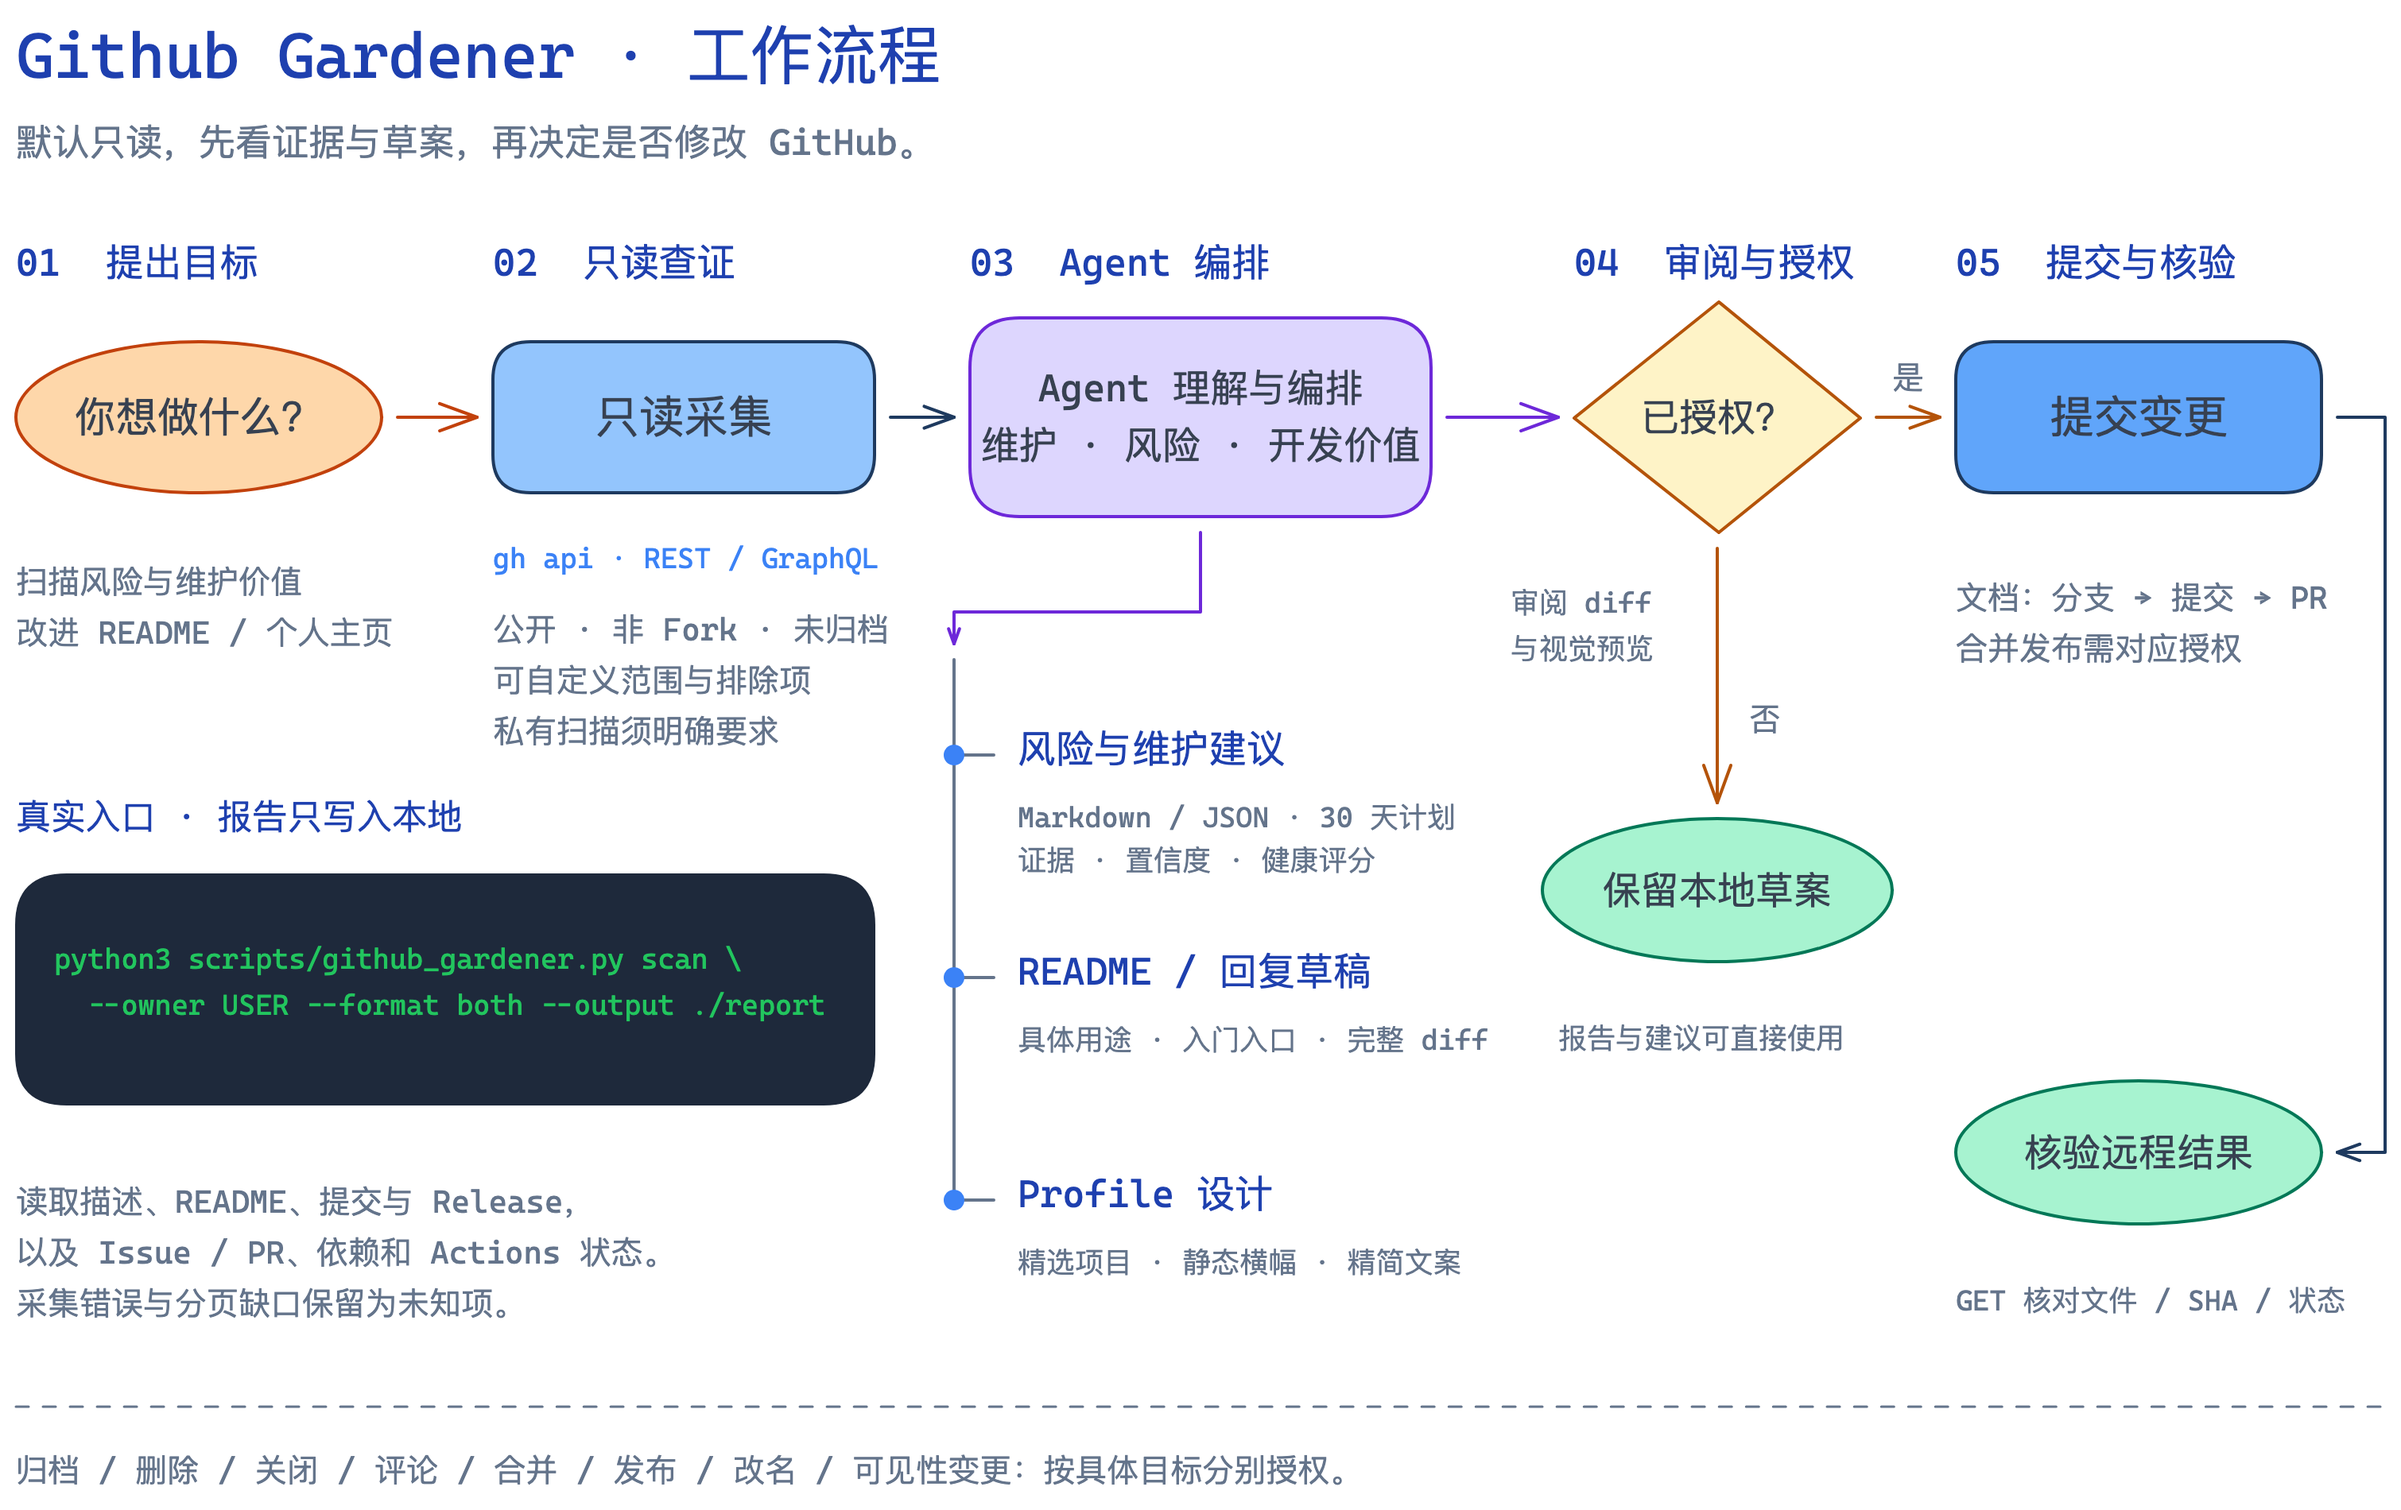
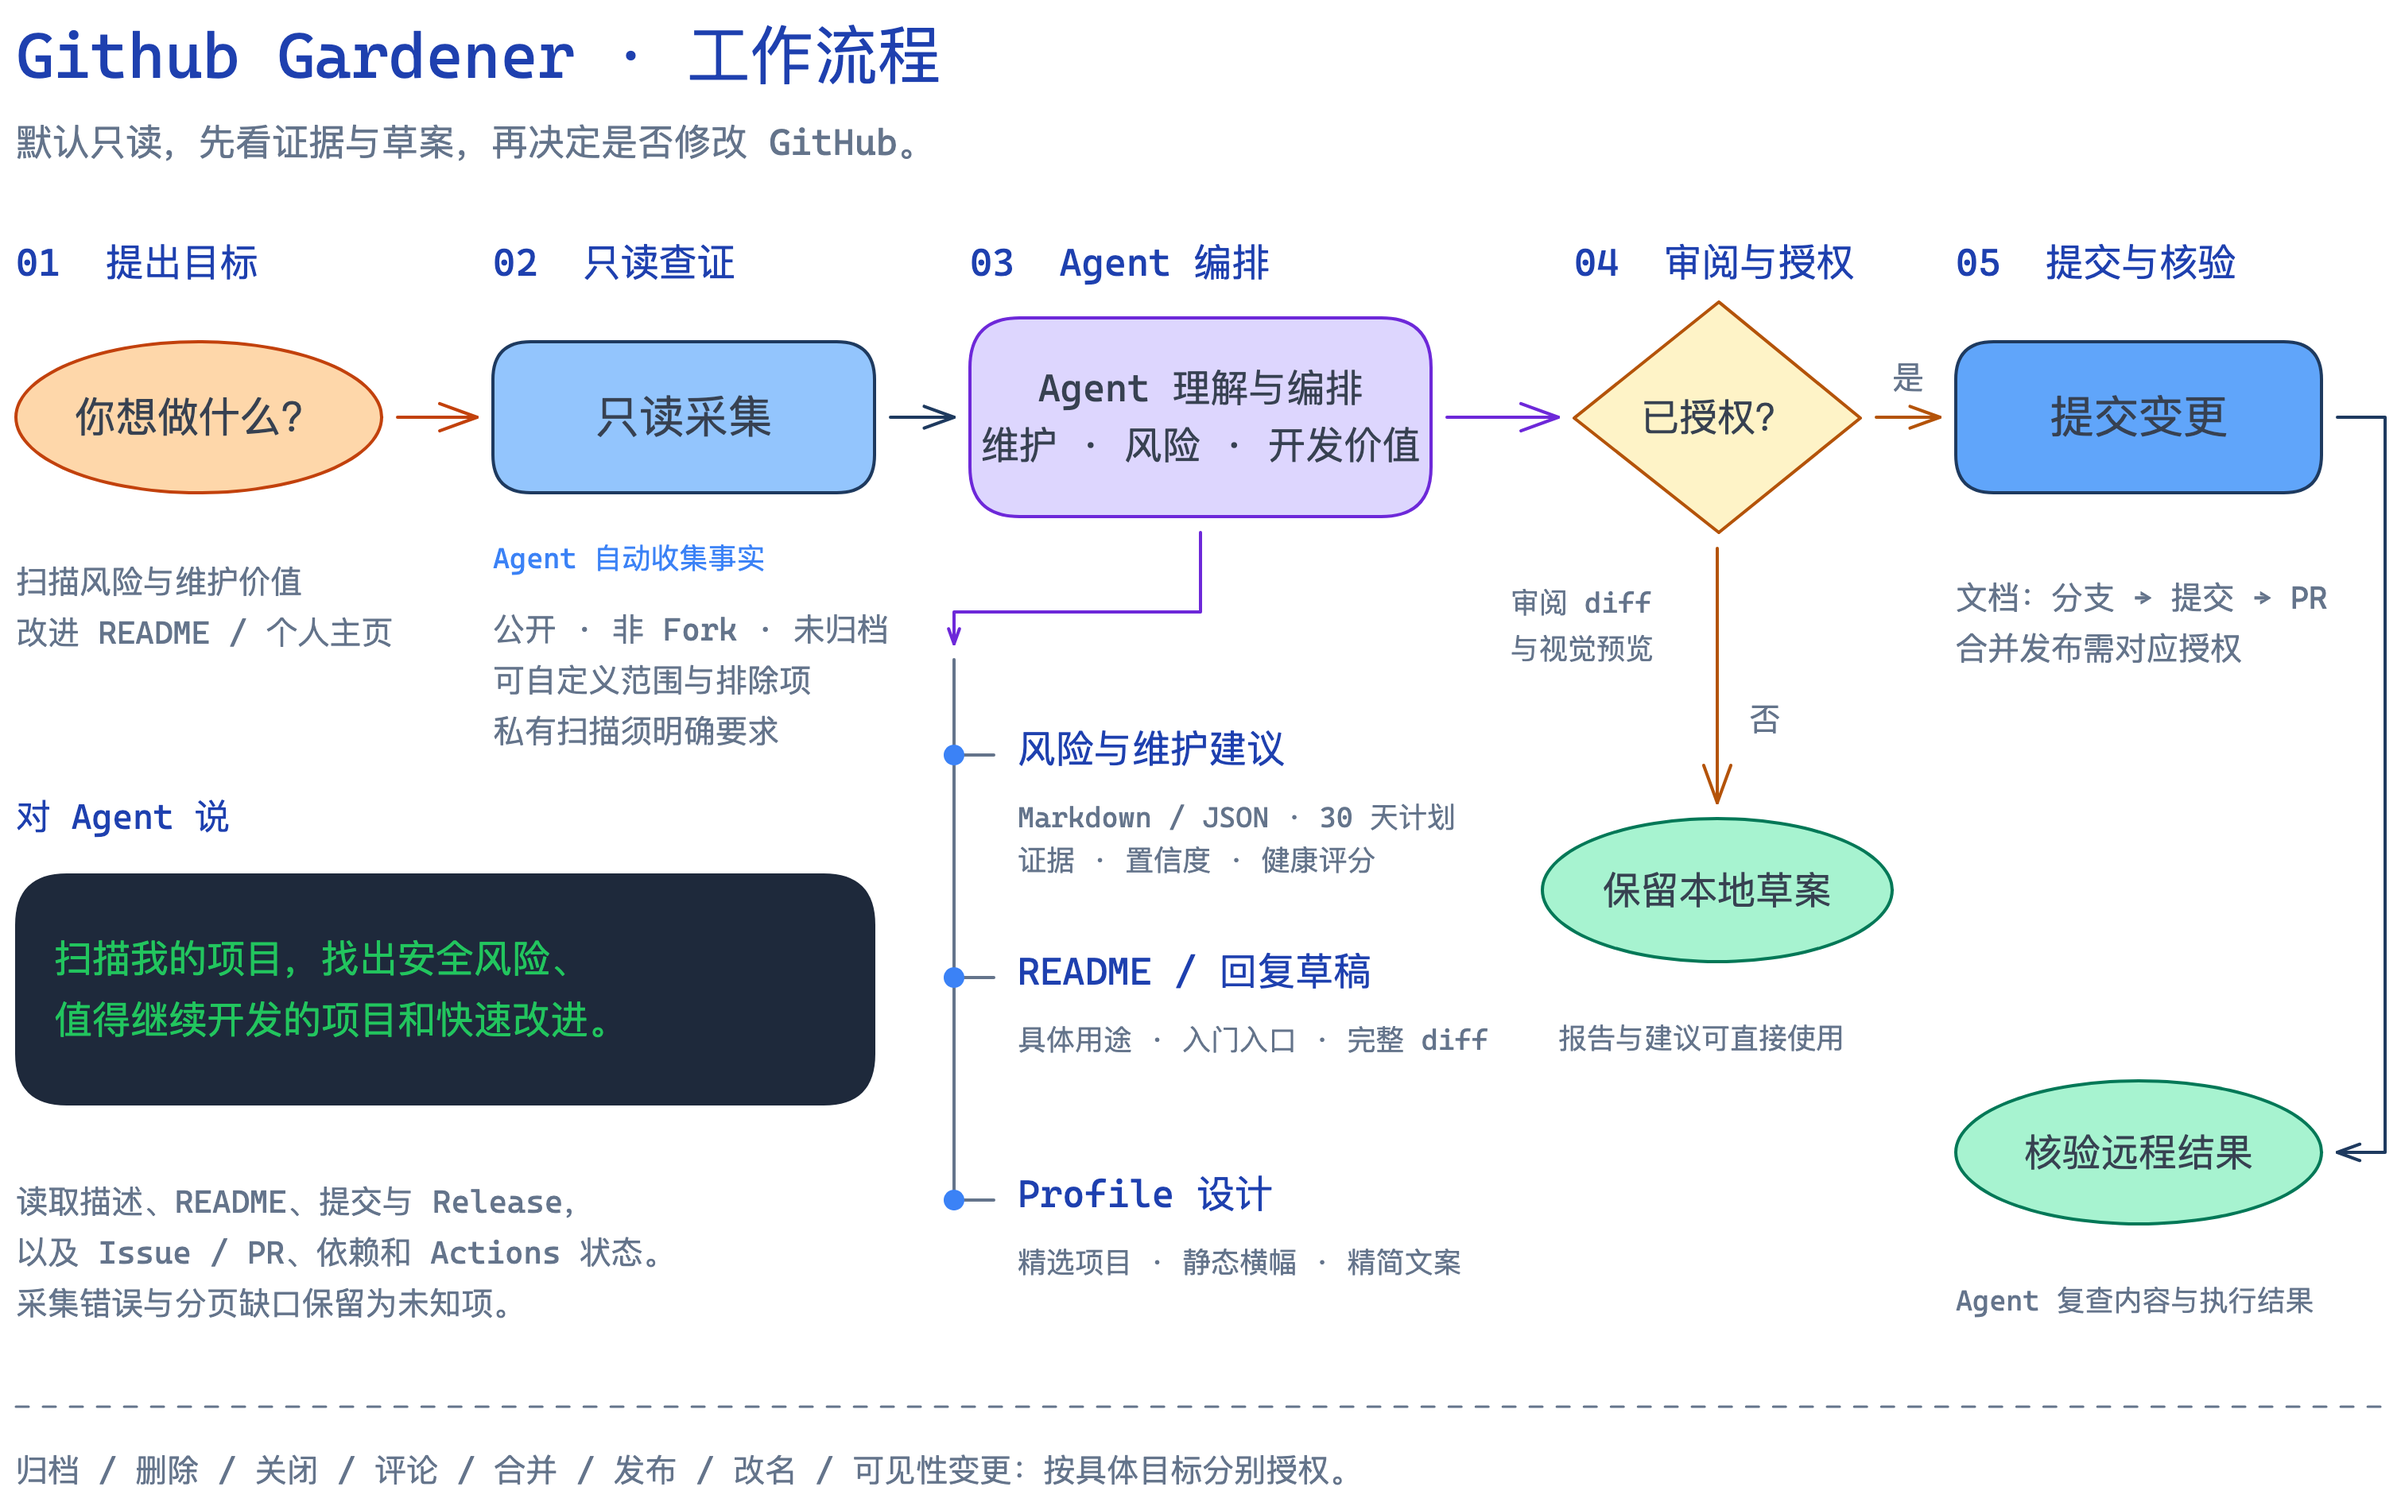
docs: make Agent the installation and usage entry point

diff --git a/README.md b/README.md
@@ -1,86 +1,47 @@
 # Github Gardener
 
-让 Agent 帮你经营 GitHub 项目：有证据地盘点风险与维护价值，改进 README，设计个人主页，再按授权提交变更。
+你的 GitHub 项目花园管家，一个交给 Agent 使用的 Skill。
 
-**默认只读 · 通过 gh 使用本机登录态 · Python 标准库 · MIT**
-
-## 工作流程
-
-![Github Gardener 工作流程：提出目标、只读查证、Agent 编排、审阅授权、提交与核验](docs/assets/gardener-workflow.png)
-
-[编辑流程图源文件](docs/assets/gardener-workflow.excalidraw)（使用 [Excalidraw](https://excalidraw.com/) 打开）。
+告诉 Agent 你想整理什么：它会扫描仓库、分析风险与开发价值、改进项目介绍、设计个人主页，并准备可审阅的修改。安装、配置和具体操作都由 Agent 处理。
 
 ## 能做什么
 
-- **盘点项目**：公开、非 Fork、未归档仓库起步，支持排除列表、自定义范围和明确授权的私有扫描。
-- **给出判断**：维护状态、健康风险、发展价值分别说明，提供证据、置信度、快速改进和 30 天计划。
-- **处理积压**：找未回复 Issue、待审 PR 和失败 CI，准备具体行动与回复草稿。
-- **经营内容**：完善描述、Topics 和 README；为 Profile 选择项目、编排文案、制作静态横幅与预览，支持按比例精简。
-- **审核后修改**：先完整 diff，再按授权建分支、提交和 PR；危险动作分别确认。
+- **整理项目**：找出值得继续开发、需要维护或适合归档的项目，给出证据与建议。
+- **发现问题**：检查安全告警、失败 CI、长期未回复的 Issue、待审 PR 和文档缺口。
+- **推广项目**：优化 README、描述与 Topics，让别人更容易理解和使用你的项目。
+- **设计主页**：精选展示项目，编排简洁文案与视觉，让 GitHub Profile 更有辨识度。
+- **安排维护**：整理快速改进、回复草稿和 30 天行动计划。
 
-低 Star 或长期没提交不等于应该删除。未知数据不算无风险，健康分也不代表全面安全审计。
+默认只读。修改前展示差异与预览；删除、归档、评论、合并、发布等操作分别确认。支持自定义范围和明确要求的私有仓库扫描。
 
-## 安装到 Codex
+## 让 Agent 安装
 
-准备 [GitHub CLI](https://cli.github.com/)、jq 和 Python 3.9+，再克隆安装：
-
-```bash
-git clone https://github.com/yayapao/github-gardener.git
-cd github-gardener
-bash scripts/install.sh
-```
-
-默认安装到 `${CODEX_HOME:-~/.codex}/skills/github-gardener`。已安装时运行 `bash scripts/install.sh --force`，旧版本会备份到 Codex 的 `skill-backups/`，不进入 Skill 发现目录。也可用 `--destination /absolute/path/skills/github-gardener` 指定目标。
-
-开启新的 Codex 会话，即可使用 `$github-gardener` 或自然语言调用。联网扫描前执行 `gh auth login`；不把 Token 写进配置或聊天。扫描只需相应读取权限，不要为普通扫描申请删除权限。
-
-更新源码与本机安装副本：
-
-```bash
-git pull --ff-only
-bash scripts/install.sh --force
-```
-
-## 在 Agent 里直接说
+把下面这句话发给 Codex 或支持 Agent Skills 的 Agent：
 
 ```text
-$github-gardener 扫描我的项目，找安全风险、值得继续开发的项目和快速改进，先只读。
+请从 https://github.com/yayapao/github-gardener 为我安装 Github Gardener Skill，并完成依赖准备和安装核验。
+```
+
+## 安装后，直接说
+
+```text
+扫描我的 GitHub 项目，找出安全风险、值得继续开发的项目和清理候选，先给建议。
 ```
 
 ```text
-$github-gardener 以 Agent 开发为重点设计我的 Profile，保持简洁，先给预览和 diff。
+优化 my-tool 的 README 和描述，让社区用户更容易理解它的用途。
 ```
 
 ```text
-$github-gardener 优化 my-tool 的 README、描述和 Topics，依据真实代码写，修改前展示差异。
+帮我重新设计 GitHub 主页，重点展示 Agent 开发，保持简洁，先给预览。
 ```
 
-还可以要求“文案减少 50%”“给待回复 Issue 写草稿”或“生成 30 天维护计划”。自动扫描提供事实，Agent 负责理解和编辑；后台不会自行修改仓库。
+也可以用 `$github-gardener` 指定调用，或直接说“文案减少 50%”“给这些 Issue 写回复草稿”。
 
-## 命令行入口
+## 工作流程
 
-```bash
-python3 -B scripts/github_gardener.py scan --owner YOUR_LOGIN \
-  --format both --output ./report --snapshot-out ./report/snapshot.json
-```
+![Github Gardener 工作流程：提出目标、Agent 查证与编排、审阅授权、提交与核验](docs/assets/gardener-workflow.png)
 
-生成 Markdown、JSON 和 Profile 事实草案。完整参数、私有扫描与配置见 [使用指南](docs/usage.md)。
-
-## 设计与开发
-
-- [设计与能力边界](docs/design.md)：Agent 与脚本分工、证据模型、安装与维护方式。
-- [Profile 设计与编排](references/profile-design.md)：定位、项目选择、原创视觉、精简、预览和上线。
-- [审计方法](references/audit-method.md) · [内容经营](references/editorial-workflow.md) · [安全变更流程](references/safe-change-workflow.md) · [报告契约](references/report-schema.md)。
-- [参与开发](CONTRIBUTING.md)：维护方式与打包入口。
-
-```bash
-python3 -B scripts/package_skill.py --output ../github-gardener.skill
-```
-
-`.skill` 是可解压的 ZIP 包，包含可安装 Skill 和设计指南。安装和打包使用相同的文件清单，排除 Git 元数据与本地工作报告。
-
-源码入口为 [SKILL.md](SKILL.md)，本仓库是唯一维护源，本地安装目录是运行副本。
-
-## 许可证
+[Agent 执行指引](docs/usage.md) · [Skill 入口](SKILL.md) · [设计说明](docs/design.md) · [参与开发](CONTRIBUTING.md)
 
 [MIT](LICENSE) © yayapao

diff --git a/docs/usage.md b/docs/usage.md
@@ -1,6 +1,25 @@
-# CLI 与配置
+# Agent 执行指引
 
-命令从仓库根目录运行；安装后从 Skill 目录运行，或使用脚本绝对路径。
+本页供 Agent 安装、配置和调用 Skill。用户入口是 [README](../README.md) 中的安装 Prompt 与自然语言需求；Agent 自行执行下列步骤，向用户交付结果与必要决策。
+
+## 安装与环境准备
+
+1. 确认当前宿主支持 Agent Skills，检查已有安装及 `gh`、`jq`、`python3`；Python 需 3.9+。依赖缺失时，在当前安装请求范围内使用可用的包管理或安装能力准备，遵守宿主的权限要求。
+2. 获取 `https://github.com/yayapao/github-gardener` 中的 Skill。优先使用宿主已有的 Skill 安装能力；Codex 也可获取源码后使用本仓库安装器：
+
+   ~~~bash
+   git clone --depth 1 https://github.com/yayapao/github-gardener.git
+   cd github-gardener
+   bash scripts/install.sh
+   ~~~
+
+   默认安装到 `${CODEX_HOME:-~/.codex}/skills/github-gardener`。可用 `--destination /absolute/path/skills/github-gardener` 指定宿主的实际 Skill 目录，不假定所有 Agent 都使用 Codex 路径。
+
+3. 已有同名 Skill 时先核对来源与版本。更新本仓库安装副本时，获取最新源码后执行 `bash scripts/install.sh --force`；旧版本备份到 Codex 根目录下的 `skill-backups/`。保留无关来源的同名内容，不盲目覆盖。
+4. 核验实际安装目录中的 `SKILL.md`、脚本、参考文件及其引用，确认依赖命令可用。宿主需要新会话才能发现 Skill 时告知用户；文件安装完成不等于当前会话已加载。
+5. 使用 `gh auth status` 检查本机授权，不输出凭证。首次联网任务需要登录时，引导用户通过 GitHub 授权页面完成 `gh auth login`；不要索取聊天中的 Token。普通扫描只需相应读取权限，不申请删除权限。
+
+安装请求只准备环境和 Skill，不自动发起仓库审计或远程变更。安装后按用户目标选择下面的调用方式；命令从 Skill 目录运行，或使用脚本绝对路径。扫描输出放在本次任务目录，避免把用户报告混入 Skill 源码。
 
 ## 扫描与离线分析
 

diff --git a/AGENTS.md b/AGENTS.md
@@ -1,0 +1,7 @@
+# Github Gardener 项目约定
+
+- 本项目交付给 Agent 调用。README 面向用户，说明它是什么、能做什么，并提供可直接交给 Agent 的安装 Prompt 与自然语言用法。
+- 安装、依赖准备、配置、命令选择、执行和核验由 Agent 承接；具体操作维护在 `SKILL.md`、`docs/usage.md` 与相关参考文件。首页和用户流程图不以终端命令作为使用入口。
+- 只向用户索取确实缺少的目标、偏好、账号授权和必要决策。用户仍审阅差异并授权远程变更，不能将“交给 Agent”解释为允许任意写入。
+- 修改源码仓库后同步本地安装副本与分发包，核验实际文件。保留默认只读、证据与置信度、按目标授权的约束。
+- 保持当前无 CI、无测试目录和无模拟数据的交付范围。流程图维护可编辑 Excalidraw 源文件与导出图片，修改后渲染检查。

diff --git a/docs/design.md b/docs/design.md
@@ -1,6 +1,6 @@
 # 设计与能力边界
 
-Github Gardener 是 Agent 可调用的 Skill。脚本负责收集和计算可复核的事实，Agent 负责理解项目、取舍内容与形成建议；远程修改依赖当前会话中的明确授权。
+Github Gardener 是 Agent 可调用的 Skill。用户入口说明它是什么、能做什么，并提供安装 Prompt 与自然语言用法；安装、配置和操作步骤由 Agent 承接，具体指引见 [Agent 执行指引](usage.md)。脚本负责收集和计算可复核的事实，Agent 负责理解项目、取舍内容与形成建议；远程修改依赖当前会话中的明确授权。
 
 ## 工作流程
 
